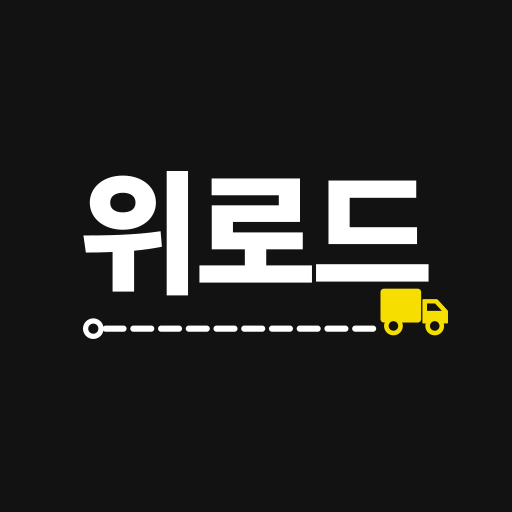
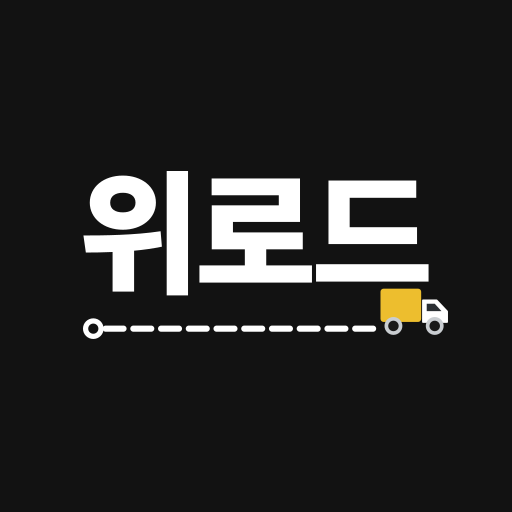
sync: weroad@ee641a8 — 기사웹 아이콘: 탑차 색을 실제 차량(흰 운전석·머스타드 적재함)으로
Claude-Session: https://claude.ai/code/session_01UCgDwLLEeMvLuEpKJwiKRt

Changed region(s): [[0.7188, 0.5625, 0.875, 0.6562]]

diff --git a/driver/index.html b/driver/index.html
@@ -8,8 +8,8 @@
 <meta name="apple-mobile-web-app-status-bar-style" content="black-translucent">
 <meta name="apple-mobile-web-app-title" content="WeRoad">
 <link rel="manifest" href="manifest.json?v=2">
-<link rel="icon" href="icon.svg?v=3" type="image/svg+xml">
-<link rel="apple-touch-icon" sizes="180x180" href="apple-touch-icon.png?v=3">
+<link rel="icon" href="icon.svg?v=4" type="image/svg+xml">
+<link rel="apple-touch-icon" sizes="180x180" href="apple-touch-icon.png?v=4">
 <title>위로드 배송기사웹</title>
 <style>
   *{box-sizing:border-box;-webkit-tap-highlight-color:transparent}
